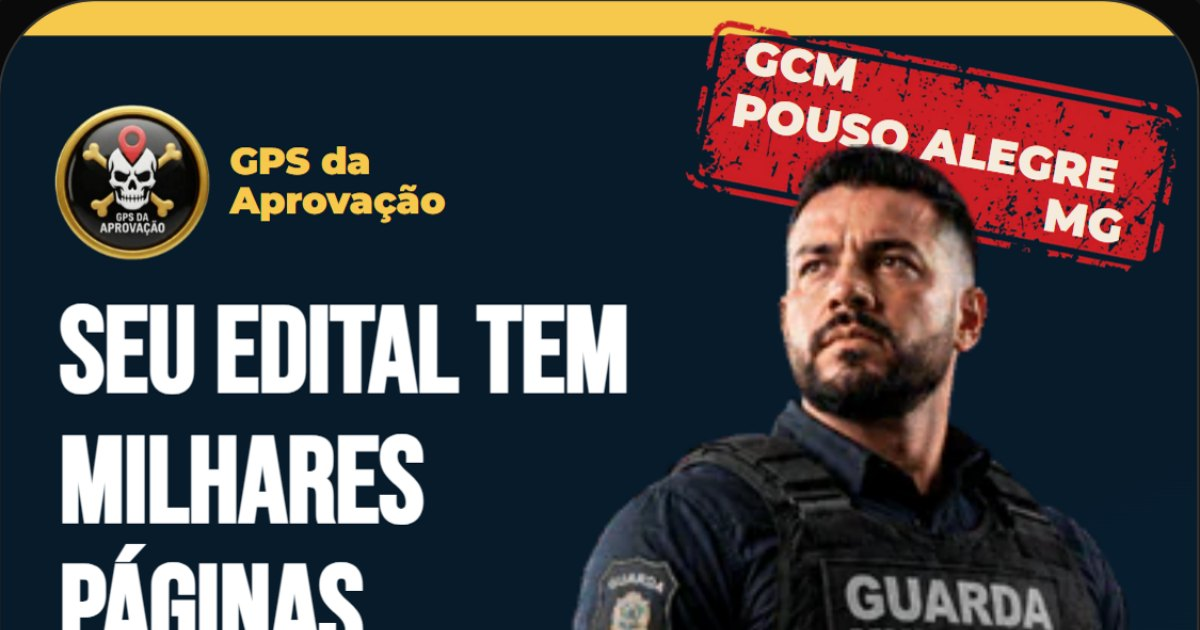
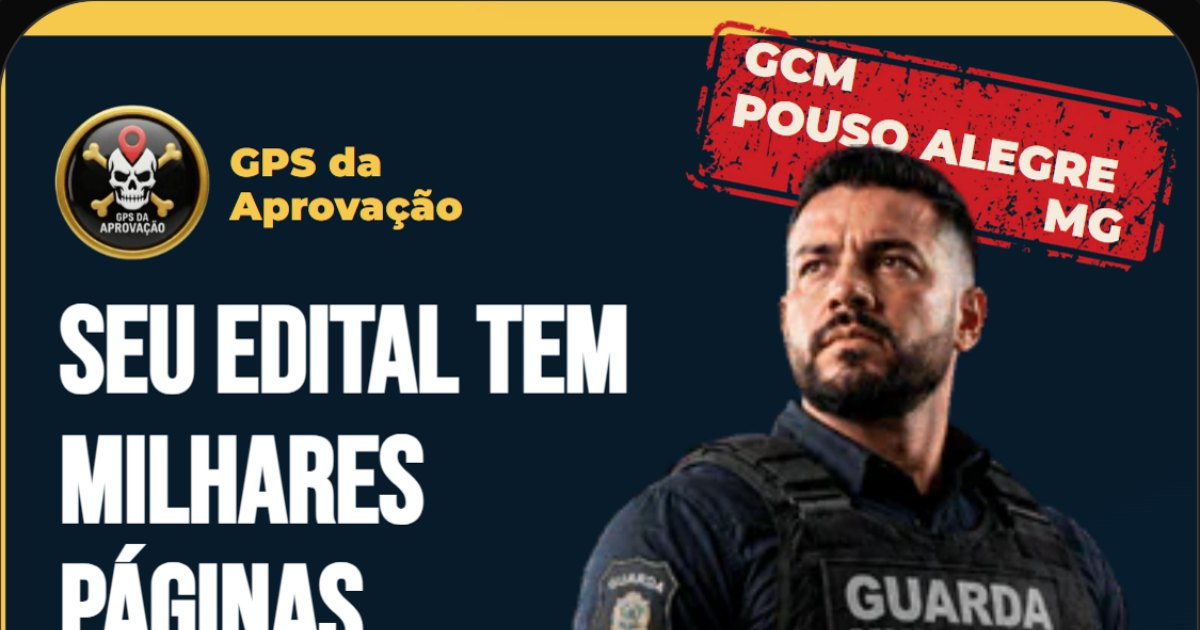
Publica landing GPS Studio

Changed region(s): [[0.0, 0.1206, 0.0308, 1.0], [0.185, 0.2111, 0.4008, 0.3619]]

diff --git a/paginamaster/README_PUBLICACAO.md b/paginamaster/README_PUBLICACAO.md
@@ -2,4 +2,4 @@
 
 Slug: paginamaster
 URL prevista: https://gpsdaaprovacao.com/paginamaster/
-Gerado em: 23/07/2026, 16:54:22
+Gerado em: 23/07/2026, 17:01:09